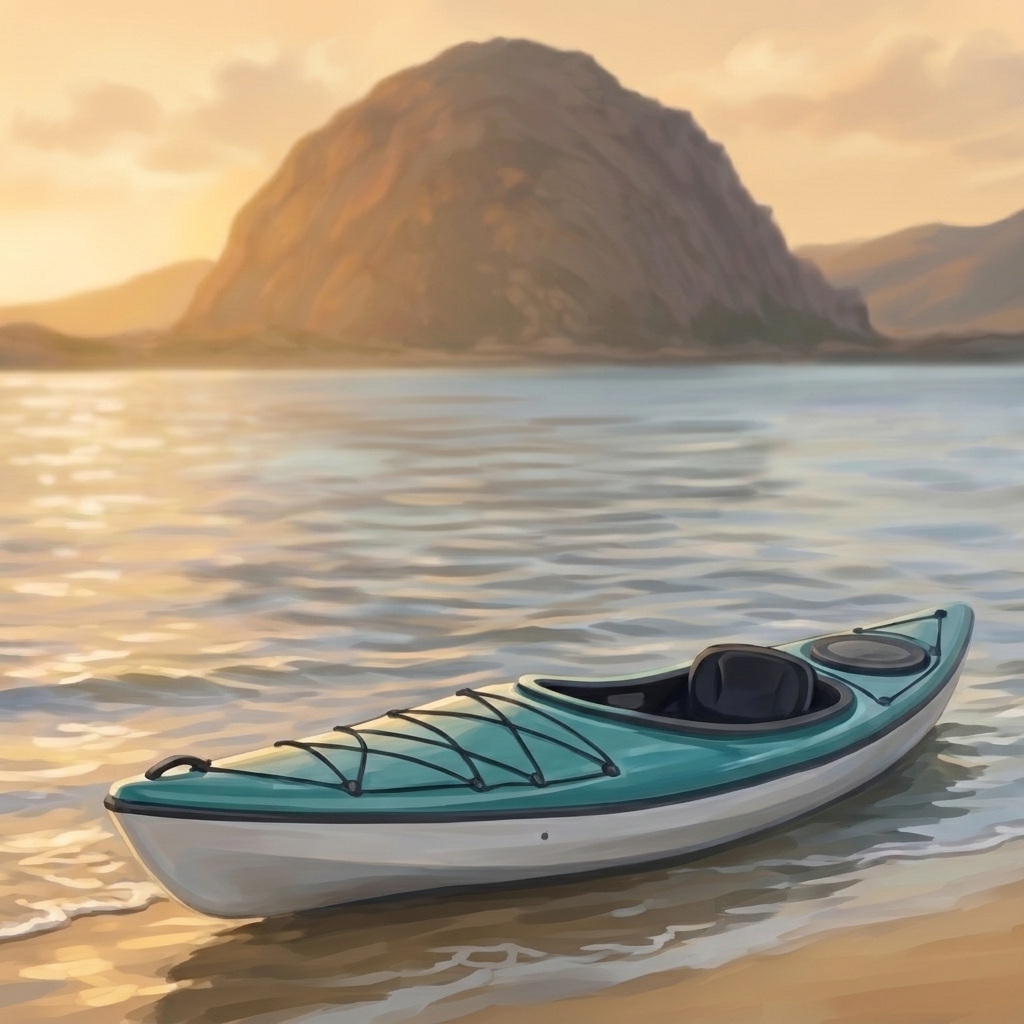
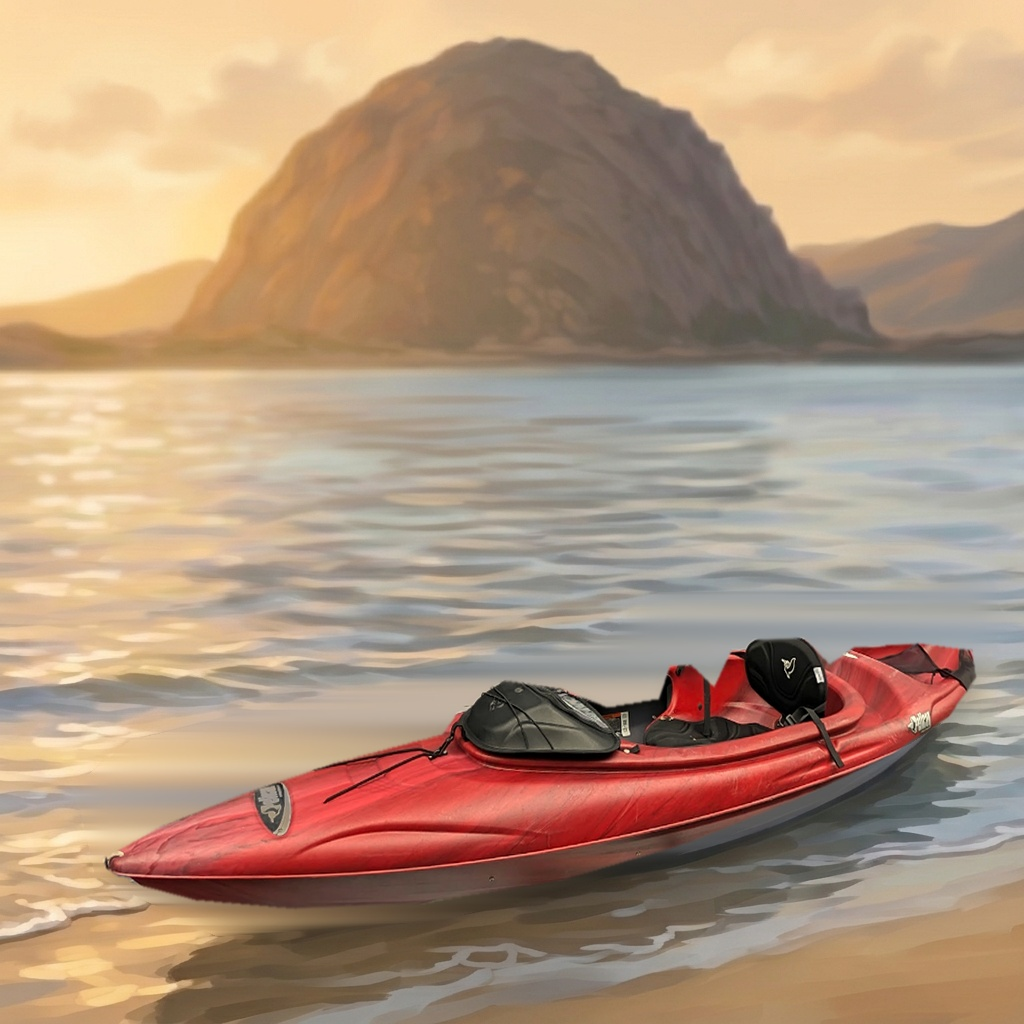
Replace kayak with Chris's red Pelican, refine natural mouth/eye animations, and clean up forecast grammar

Changed region(s): [[0.0938, 0.5625, 0.9688, 0.9375]]

diff --git a/Indies Kayak Forecast/index.html b/Indies Kayak Forecast/index.html
@@ -14,20 +14,20 @@
             50% { transform: scaleX(1.005) scaleY(1.009) translateY(-1px); }
         }
         @keyframes indieSpeakBody {
-            0%   { transform: scaleX(1.0) scaleY(1.0) translateY(0px); }
-            35%  { transform: scaleX(1.007) scaleY(1.013) translateY(-1.5px); }
-            65%  { transform: scaleX(1.003) scaleY(1.006) translateY(-0.5px); }
-            100% { transform: scaleX(1.0) scaleY(1.0) translateY(0px); }
+            0%   { transform: scaleX(1.0) scaleY(1.0) translateY(0px) rotate(0deg); }
+            30%  { transform: scaleX(1.005) scaleY(1.010) translateY(-1.2px) rotate(0.35deg); }
+            65%  { transform: scaleX(1.002) scaleY(1.005) translateY(-0.5px) rotate(-0.25deg); }
+            100% { transform: scaleX(1.0) scaleY(1.0) translateY(0px) rotate(0deg); }
         }
         .indie-live-motion {
             transform-origin: 50% 38%;
             animation: indieBreathe 3.8s ease-in-out infinite;
         }
         .indie-live-motion.is-speaking {
-            animation: indieSpeakBody 2.6s ease-in-out infinite;
+            animation: indieSpeakBody 2.8s ease-in-out infinite;
         }
         .indie-frame-img {
-            transition: opacity 75ms ease-in-out;
+            transition: opacity 90ms ease-in-out;
         }
         @keyframes barPulse {
             0%, 100% { transform: scaleY(0.35); }
@@ -585,6 +585,7 @@
                     <img id="indie-frame-closed" src="assets/indie_v2_closed.png" alt="Indie standing head-to-toe beside her kayak at Morro Bay" class="indie-frame-img absolute inset-0 w-full h-full object-contain opacity-100" />
                     <img id="indie-frame-mid" src="assets/indie_v2_mid.png" alt="" aria-hidden="true" class="indie-frame-img absolute inset-0 w-full h-full object-contain opacity-0" />
                     <img id="indie-frame-open" src="assets/indie_v2_open.png" alt="" aria-hidden="true" class="indie-frame-img absolute inset-0 w-full h-full object-contain opacity-0" />
+                    <img id="indie-frame-blink" src="assets/indie_v2_blink.png" alt="" aria-hidden="true" class="indie-frame-img absolute inset-0 w-full h-full object-contain opacity-0" />
                 </div>
             </div>
 
@@ -1765,14 +1766,66 @@
             } catch (e) {}
         }
 
+        let indieCurrentMouthFrame = 'closed';
+        let indieIsBlinking = false;
+        let indieBlinkTimer = null;
+        let indieBlinkRestoreTimer = null;
+
         function setIndieMouthFrame(frameName) {
+            indieCurrentMouthFrame = frameName;
             const closed = document.getElementById('indie-frame-closed');
             const mid = document.getElementById('indie-frame-mid');
             const open = document.getElementById('indie-frame-open');
+            const blink = document.getElementById('indie-frame-blink');
             if (!closed || !mid || !open) return;
+
+            if (indieIsBlinking && blink) {
+                closed.style.opacity = '0';
+                mid.style.opacity = '0';
+                open.style.opacity = '0';
+                blink.style.opacity = '1';
+                return;
+            }
+            if (blink) blink.style.opacity = '0';
             closed.style.opacity = frameName === 'closed' ? '1' : '0';
             mid.style.opacity = frameName === 'mid' ? '1' : '0';
             open.style.opacity = frameName === 'open' ? '1' : '0';
+        }
+
+        function triggerIndieBlink() {
+            const modal = document.getElementById('indie-modal');
+            if (!modal || modal.classList.contains('hidden')) return;
+            indieIsBlinking = true;
+            setIndieMouthFrame(indieCurrentMouthFrame);
+            if (indieBlinkRestoreTimer) clearTimeout(indieBlinkRestoreTimer);
+            indieBlinkRestoreTimer = setTimeout(() => {
+                indieIsBlinking = false;
+                setIndieMouthFrame(indieCurrentMouthFrame);
+            }, 135);
+        }
+
+        function startIndieBlinkLoop() {
+            stopIndieBlinkLoop();
+            const scheduleNext = () => {
+                const waitMs = 2600 + Math.floor(Math.random() * 2400);
+                indieBlinkTimer = setTimeout(() => {
+                    triggerIndieBlink();
+                    scheduleNext();
+                }, waitMs);
+            };
+            scheduleNext();
+        }
+
+        function stopIndieBlinkLoop() {
+            indieIsBlinking = false;
+            if (indieBlinkTimer) {
+                clearTimeout(indieBlinkTimer);
+                indieBlinkTimer = null;
+            }
+            if (indieBlinkRestoreTimer) {
+                clearTimeout(indieBlinkRestoreTimer);
+                indieBlinkRestoreTimer = null;
+            }
         }
 
         let indieIsSpeaking = false;
@@ -1780,20 +1833,21 @@
         function startIndieMouthAnimation() {
             stopIndieMouthAnimation();
             indieIsSpeaking = true;
-            const frames = ['mid', 'open', 'mid', 'open', 'closed', 'mid'];
+            // Conversational cadence: mostly mid/closed with occasional soft open
+            const frames = ['mid', 'closed', 'mid', 'open', 'mid', 'closed'];
             let step = 0;
 
             const tick = () => {
                 if (!indieIsSpeaking) return;
-                if (Date.now() - indieLastBoundaryAt > 170) {
+                if (Date.now() - indieLastBoundaryAt > 180) {
                     const next = frames[step % frames.length];
                     setIndieMouthFrame(next);
                     step++;
                 }
-                const jitter = 85 + Math.floor(Math.random() * 85);
+                const jitter = 95 + Math.floor(Math.random() * 75);
                 indieMouthTimer = setTimeout(tick, jitter);
             };
-            indieMouthTimer = setTimeout(tick, 90);
+            indieMouthTimer = setTimeout(tick, 95);
         }
 
         function stopIndieMouthAnimation() {
@@ -1857,14 +1911,24 @@
                 label: 'One-Piece',
                 closed: 'assets/indie_onepiece_closed.png',
                 mid: 'assets/indie_onepiece_mid.png',
-                open: 'assets/indie_onepiece_open.png'
+                open: 'assets/indie_onepiece_open.png',
+                blink: 'assets/indie_onepiece_blink.png'
             },
             {
                 key: 'shorts',
                 label: 'Sport Shorts',
                 closed: 'assets/indie_shorts_closed.png',
-                mid: 'assets/indie_shorts_closed.png',
-                open: 'assets/indie_shorts_closed.png'
+                mid: 'assets/indie_shorts_mid.png',
+                open: 'assets/indie_shorts_open.png',
+                blink: 'assets/indie_shorts_blink.png'
+            },
+            {
+                key: 'bikini',
+                label: 'Bikini',
+                closed: 'assets/indie_v2_closed.png',
+                mid: 'assets/indie_v2_mid.png',
+                open: 'assets/indie_v2_open.png',
+                blink: 'assets/indie_v2_blink.png'
             }
         ];
         let indieOutfitIdx = -1;
@@ -1875,10 +1939,12 @@
             const closed = document.getElementById('indie-frame-closed');
             const mid = document.getElementById('indie-frame-mid');
             const open = document.getElementById('indie-frame-open');
+            const blink = document.getElementById('indie-frame-blink');
             const label = document.getElementById('indie-outfit-label');
             if (closed) closed.src = outfit.closed;
             if (mid) mid.src = outfit.mid;
             if (open) open.src = outfit.open;
+            if (blink) blink.src = outfit.blink;
             if (label) label.innerText = outfit.label;
             try { localStorage.setItem('indie_outfit_idx', String(indieOutfitIdx)); } catch (e) {}
         }
@@ -1905,9 +1971,20 @@
 
             const airTemp = (document.getElementById('telemetry-airtemp')?.innerText || `${today.high}°F`).replace('°F', ' degrees');
             const waterTemp = (document.getElementById('telemetry-watertemp')?.innerText || '58.8°F').replace('°F', ' degrees');
-            const windNow = (document.getElementById('telemetry-wind')?.innerText || '2 mph').replace('mph', 'miles per hour');
-            const rawSky = (document.getElementById('telemetry-sky')?.innerText || 'Clear Sky').toLowerCase();
-            const skyPhrase = rawSky.includes('night') ? 'a clear night' : (rawSky.includes('clear') ? 'clear skies' : rawSky);
+            const windNow = (document.getElementById('telemetry-wind')?.innerText || '2 mph')
+                .replace(/\bmph\b/i, 'miles per hour');
+            const rawSky = (document.getElementById('telemetry-sky')?.innerText || 'Clear Sky').trim().toLowerCase();
+
+            let skySentence = 'clear skies and';
+            if (rawSky.includes('night')) {
+                skySentence = 'a clear night with';
+            } else if (rawSky.includes('clear')) {
+                skySentence = 'clear skies and';
+            } else if (rawSky.includes('sky') || rawSky.includes('skies')) {
+                skySentence = `${rawSky} and`;
+            } else {
+                skySentence = `${rawSky} skies and`;
+            }
 
             const nowMins = getCurrentMinutesOfDay();
             const timeGreeting = nowMins < 12 * 60
@@ -1916,39 +1993,52 @@
 
             const formatSpokenWindow = (text) => text
                 .replace(/^Tomorrow:\s*/i, '')
-                .replace(/\s*[–—-]\s*/g, ' to ');
+                .replace(/\s*[–—-]\s*/g, ' to ')
+                .replace(/\bNow\b/g, 'now');
+
+            const sitePrep = currentSite === 'coleman'
+                ? `From ${siteInfo.name}`
+                : `From the ${siteInfo.name}`;
 
             const tidePhrase = liveTide.direction === 'Rising'
-                ? 'The harbor tide is currently rising'
-                : 'The harbor tide is currently going out';
+                ? 'The harbor tide is currently rising.'
+                : 'The harbor tide is currently going out.';
 
-            const cleanDesc = (todayPlan.descText || '')
-                .replace(/\byour\b/gi, 'his')
-                .replace(/\s*\(Sunset[^)]*\)/gi, '')
-                .replace(/\s*—\s*/g, ', ')
-                .trim();
-
+            const sun = getMorroBaySunTimes(today.dateObj || new Date());
             const spokenWindow = formatSpokenWindow(todayPlan.windowText);
-            const windowPhrase = todayPlan.isAfterDarkToday
-                ? `Since it's after dark in Morro Bay, his next best launch window from the ${siteInfo.name} is tomorrow from ${spokenWindow}.`
-                : `From the ${siteInfo.name}, his best launch window today is ${spokenWindow.includes('Now') ? spokenWindow.replace('Now', 'now') : 'from ' + spokenWindow}. ${cleanDesc}`;
+
+            let windowPhrase = '';
+            if (todayPlan.isAfterDarkToday) {
+                windowPhrase = `Since it's already after dark in Morro Bay, his next best launch window ${sitePrep.toLowerCase()} is tomorrow from ${spokenWindow}.`;
+            } else {
+                const windowClause = spokenWindow.includes('now')
+                    ? `is ${spokenWindow}`
+                    : `is from ${spokenWindow}`;
+                const tideAssist = isRisingPreferred
+                    ? `That gives him a smooth turnaround before the ${sun.sunsetStr} sunset, with a rising tide helping carry him back south.`
+                    : `That gives him an outgoing tide to carry him smoothly north back to Coleman Park before the ${sun.sunsetStr} sunset.`;
+                windowPhrase = `${sitePrep}, his best launch window today ${windowClause}. ${tideAssist}`;
+            }
 
             const flirtyClosings = [
-                `Don't stay out on the water too long, handsome—I'll be waiting right here on the sand to warm you up.`,
-                `Paddle fast back to shore, Chris—I've got much better plans for us once you're out of that kayak.`,
+                `Don't stay out on the water too long, handsome. I'll be waiting right here on the sand to warm you up.`,
+                `Paddle fast back to shore, Chris. I've got much better plans for us once you're out of that kayak.`,
                 `Enjoy the smooth ride on the bay, babe, because the best part of your day is waiting for you right back home.`
             ];
             const closing = flirtyClosings[Math.max(0, indieOutfitIdx) % flirtyClosings.length];
 
-            const intro = `${timeGreeting}, I'm Indie, your Morro Bay Alta Court weather girl. I've got Chris's kayak out and ready for him to explore the bay—though honestly, watching him paddle out here is only half the fun. Here is what he can expect.`;
+            const intro = `${timeGreeting}! I'm Indie, your Morro Bay Alta Court weather girl. I've got Chris's kayak out and ready for the bay, though honestly, watching him paddle out here is only half the fun. Here's what he can expect.`;
 
-            return `${intro} Right now we have ${skyPhrase} and ${airTemp}, with a water temperature of ${waterTemp}—just cool enough to give him a great excuse to let me warm him up later—and light winds around ${windNow}. Today's high is ${today.high} degrees with a low of ${today.low}. ${tidePhrase}. ${windowPhrase} ${closing}`;
+            const weatherSummary = `Right now we have ${skySentence} ${airTemp}, with a water temperature of ${waterTemp}—just cool enough to give him a great excuse to let me warm him up later—and light winds around ${windNow}. Today's high will reach ${today.high} degrees, with a low of ${today.low}.`;
+
+            return `${intro} ${weatherSummary} ${tidePhrase} ${windowPhrase} ${closing}`;
         }
 
         function openIndieBriefing(autoSpeak = true) {
             const modal = document.getElementById('indie-modal');
             if (!modal) return;
             rotateIndieOutfit();
+            startIndieBlinkLoop();
             indieCurrentScript = buildTodayBriefingScript();
             renderIndieCaptionAt(-1);
             modal.classList.remove('hidden');
@@ -1963,6 +2053,7 @@
 
         function closeIndieBriefing() {
             stopIndieForecast();
+            stopIndieBlinkLoop();
             const modal = document.getElementById('indie-modal');
             if (modal) modal.classList.add('hidden');
         }
@@ -2008,7 +2099,7 @@
                     renderIndieCaptionAt(e.charIndex);
                     const wordMatch = indieCurrentScript.slice(e.charIndex).match(/^\S+/);
                     const word = wordMatch ? wordMatch[0].toLowerCase() : '';
-                    if (/[aou]/.test(word) && word.length > 3) {
+                    if (/[ao]/.test(word) && word.length > 4) {
                         setIndieMouthFrame('open');
                     } else if (word.length > 0) {
                         setIndieMouthFrame('mid');
